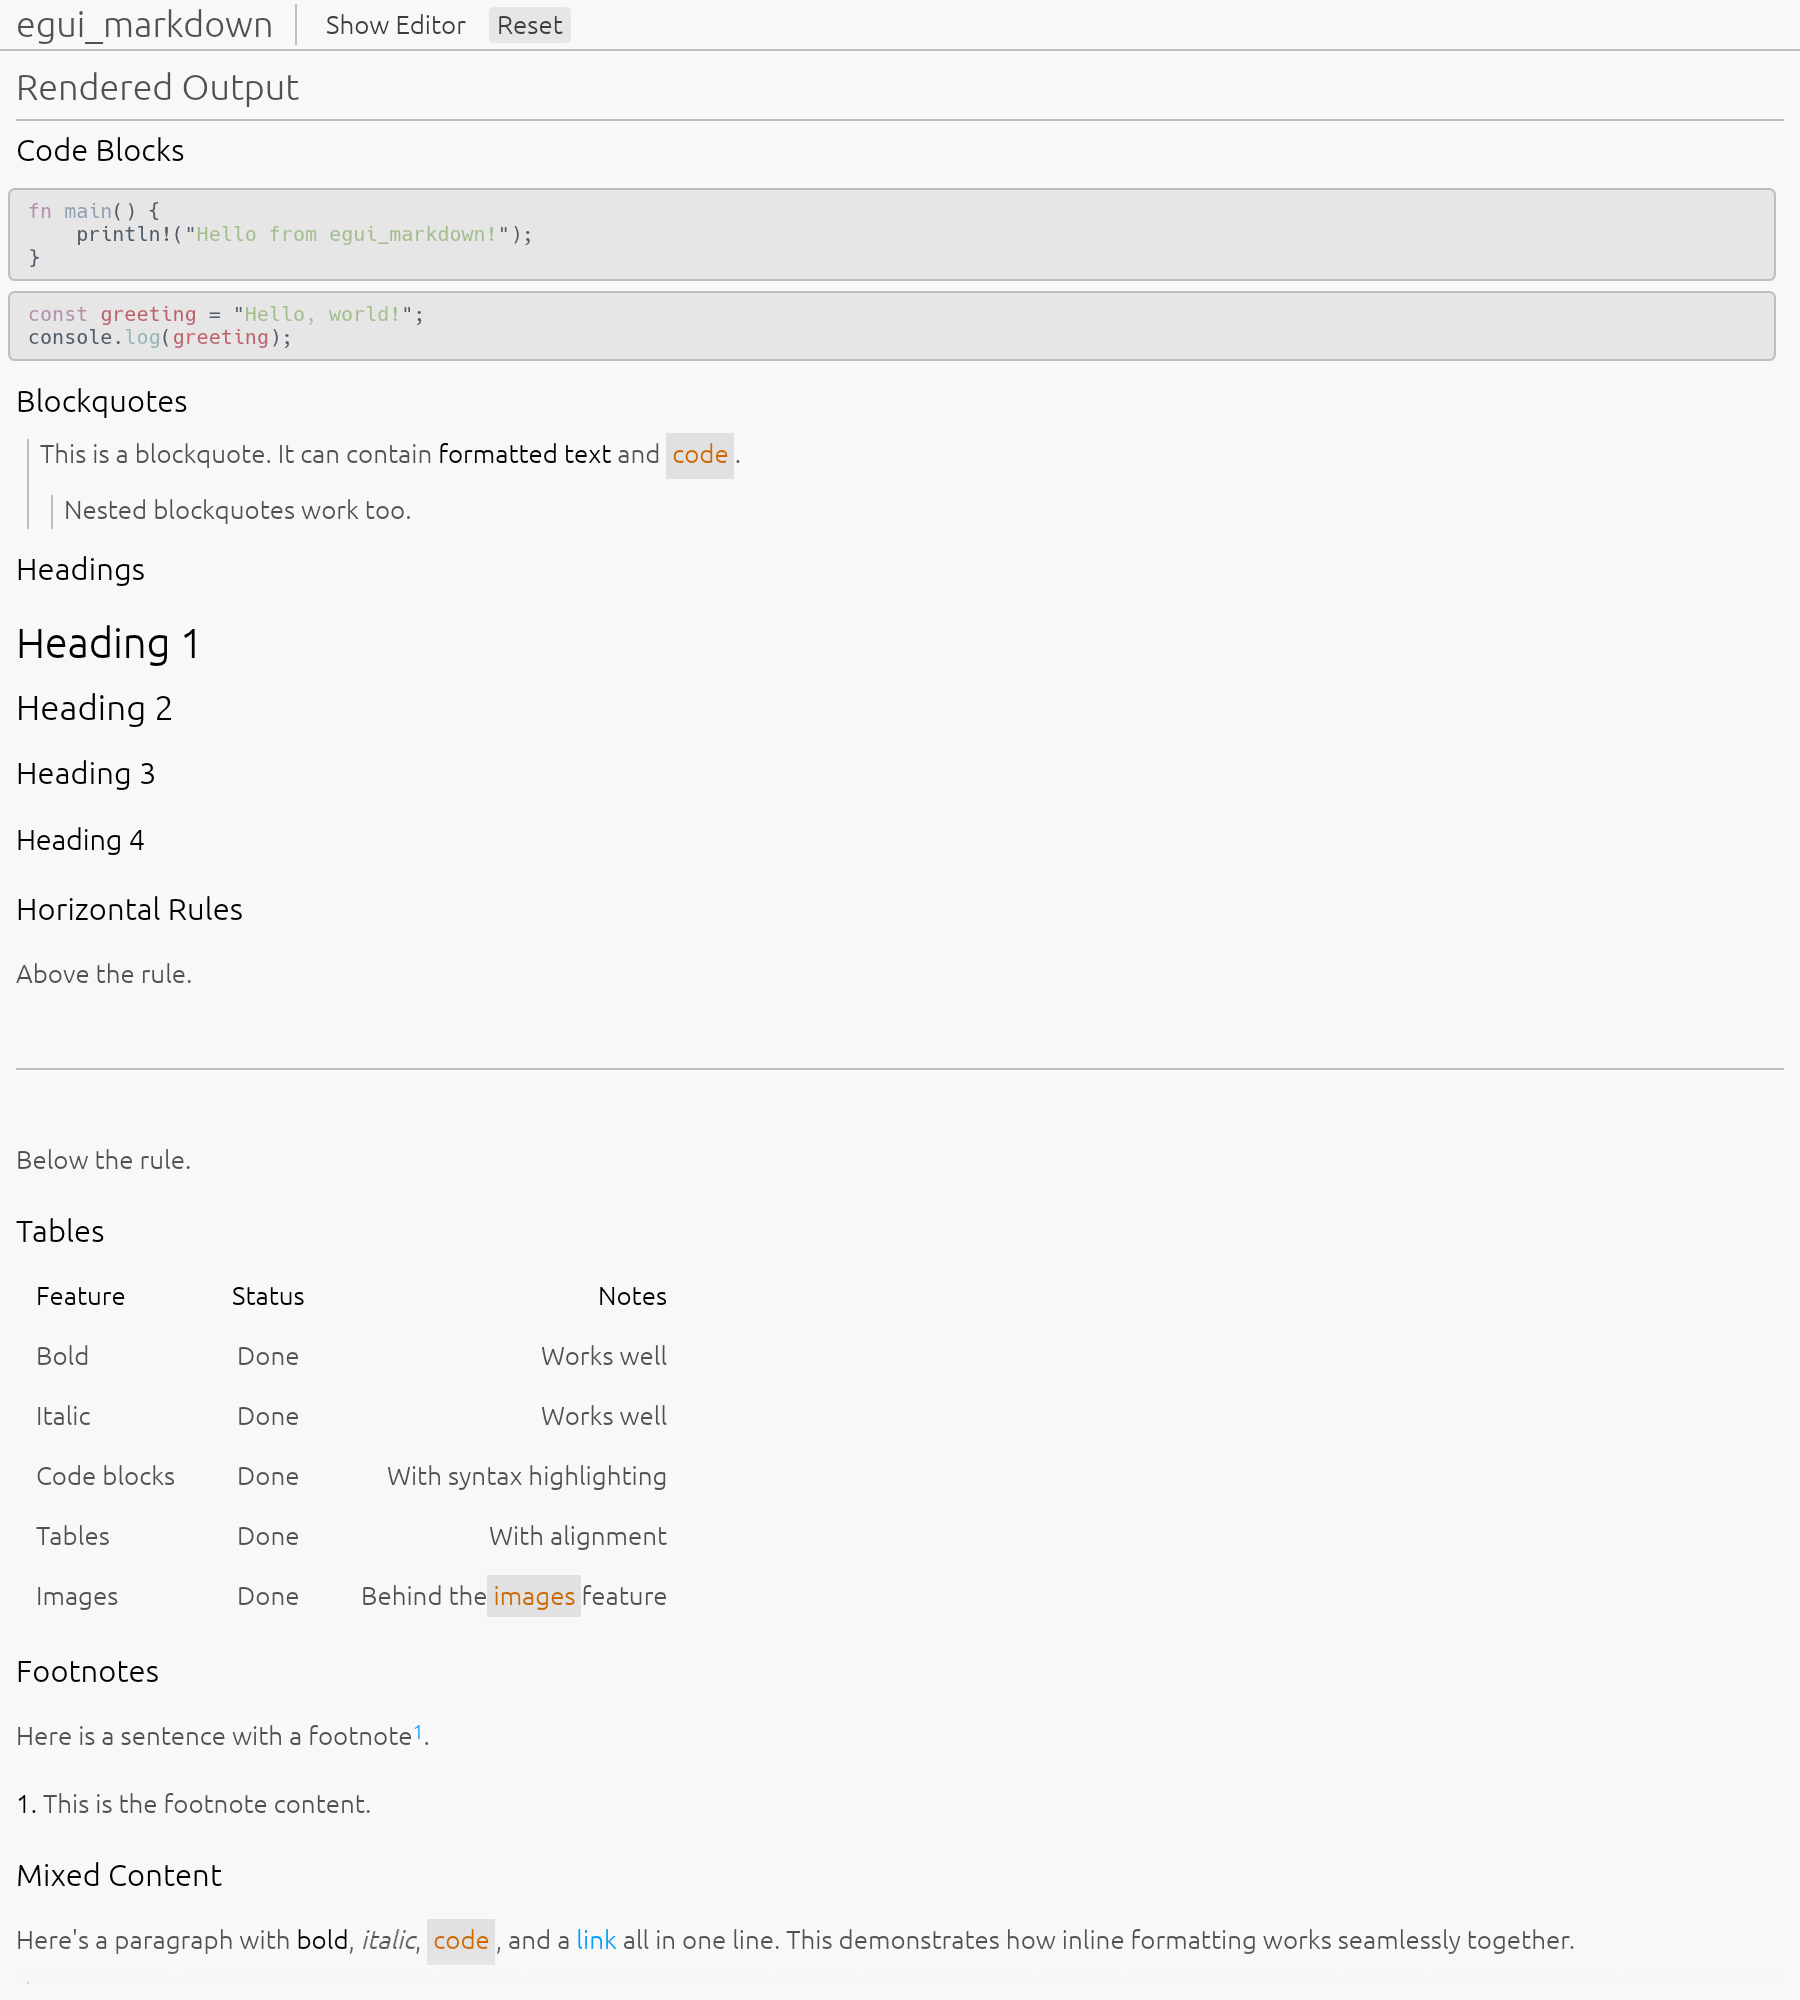
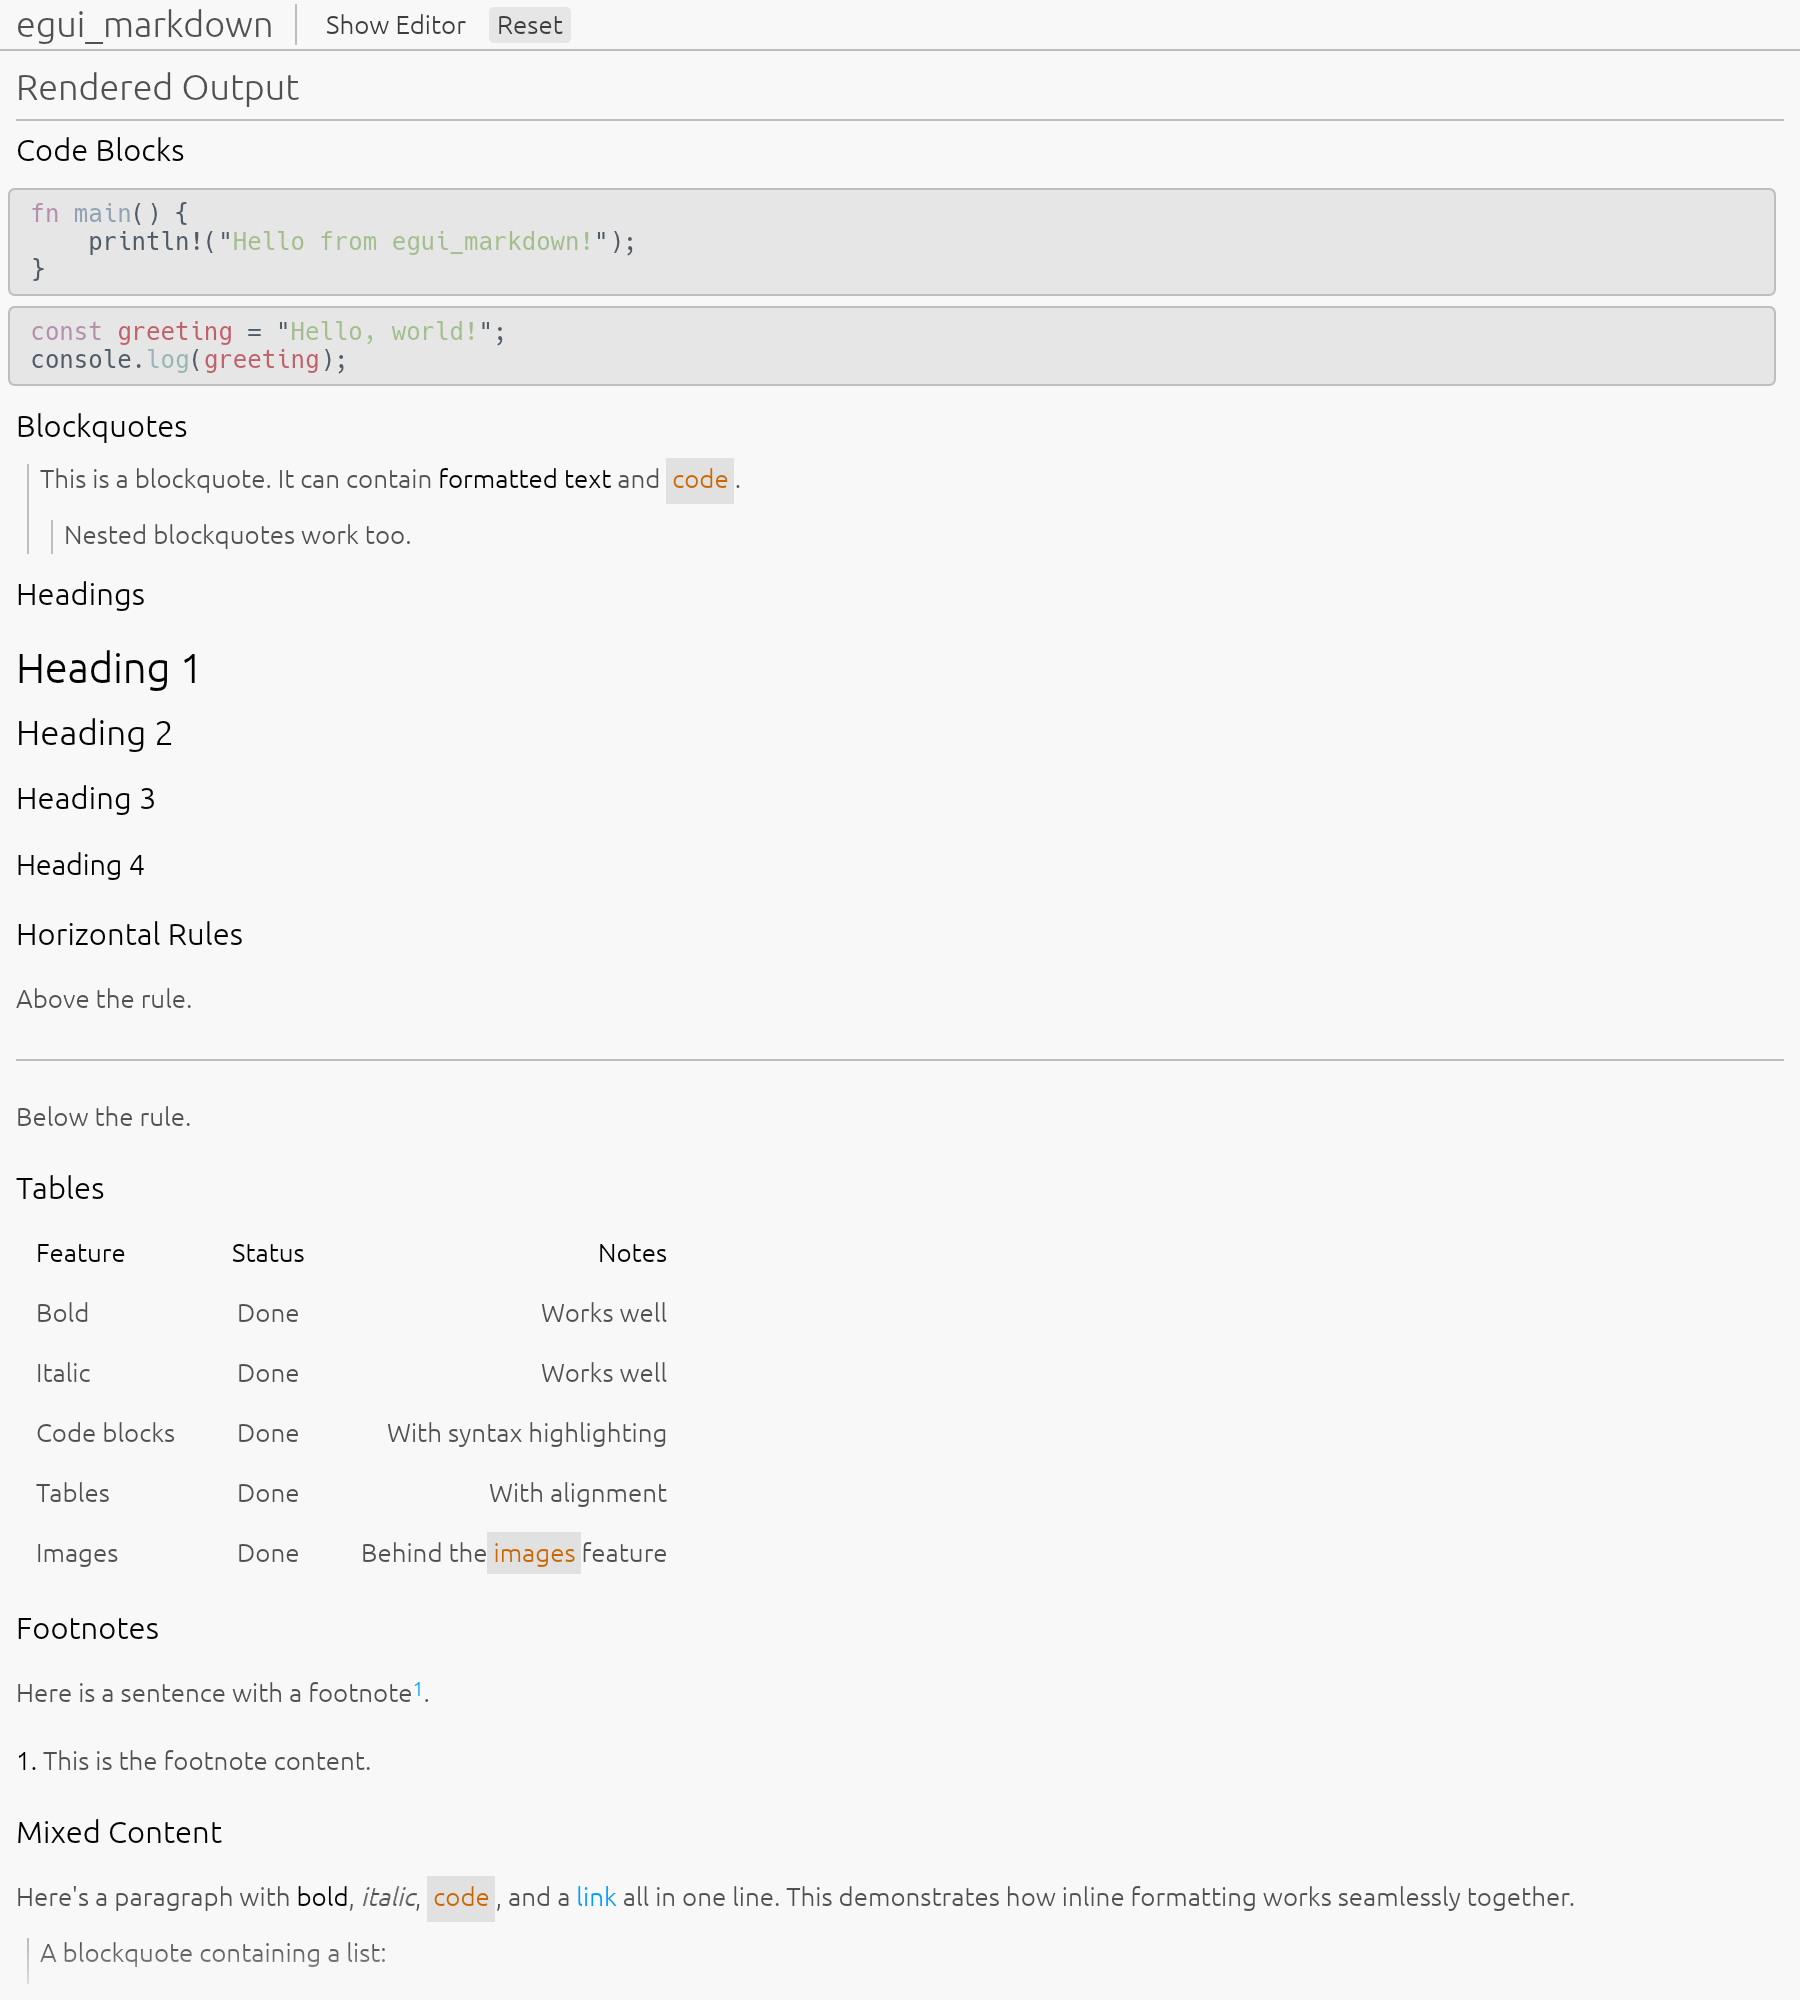
Tighten the space around rules, and raise the default code font size
A rule got two blank rows above and two below it, because the layout added a
newline on each side of the blank lines the parser had already put there. The
newline that ended the rule's row also made that row a full line tall. The
rule now takes one row of HorizontalRuleStyle::height, with one blank row on
each side, as between two paragraphs. The parser ends the rule's row itself,
so text that adds no break, such as an HTML block, still starts a new row.

The default code_font_size was 10, small beside egui's 12.5 point body text.
It is now 12, egui's default monospace size.

diff --git a/src/layout.rs b/src/layout.rs
@@ -356,6 +356,7 @@ pub fn build_layout(
   // Pre-build common formats to avoid repeated font_id.clone().
   let base_format = text_format(font_id.clone(), color);
   let transparent_format = TextFormat { color: Color32::TRANSPARENT, ..base_format.clone() };
+  let hr_format = TextFormat { line_height: Some(style.horizontal_rule.height), ..transparent_format.clone() };
 
   // Disable egui's paragraph-splitting optimization (see egui #5411).
   if let Some(n) = max_rows {
@@ -367,7 +368,10 @@ pub fn build_layout(
   for (token_index, token) in tokens.iter().enumerate() {
     match token {
       Token::Newline => {
-        push_section(&mut job, "\n", 0.0, base_format.clone());
+        // The newline that ends the row of a rule takes the height of the rule, so the row stays short.
+        let after_rule = token_index.checked_sub(1).is_some_and(|i| matches!(tokens[i], Token::HorizontalRule));
+        let format = if after_rule { hr_format.clone() } else { base_format.clone() };
+        push_section(&mut job, "\n", 0.0, format);
         section_to_token.push(token_index);
       }
       Token::Text { text, style } => {
@@ -519,17 +523,12 @@ pub fn build_layout(
         blockquote_depth = blockquote_depth.saturating_sub(1);
       }
       Token::HorizontalRule => {
-        // Newline, short transparent spacer row for the painted rule, then newline.
-        push_section(&mut job, "\n", 0.0, base_format.clone());
-        section_to_token.push(token_index);
+        // A short transparent row that the rule is painted across. The parser puts the rule on a row
+        // of its own, with a blank row above and below it, as between two paragraphs.
         let hr_char_pos = job.text.chars().count();
-        let mut hr_format = transparent_format.clone();
-        hr_format.line_height = Some(style_ref.horizontal_rule.height);
-        push_section(&mut job, " ", 0.0, hr_format);
+        push_section(&mut job, " ", 0.0, hr_format.clone());
         section_to_token.push(token_index);
         hr_positions.push(hr_char_pos);
-        push_section(&mut job, "\n", 0.0, base_format.clone());
-        section_to_token.push(token_index);
       }
       Token::TaskListMarker { checked, .. } => {
         let marker_char = if *checked { "☑ " } else { "☐ " };
@@ -1037,6 +1036,31 @@ mod section_tests {
       assert_eq!(size_of("Title "), heading);
       assert_eq!(size_of("code"), heading);
       assert_eq!(size_of("link"), heading);
+      checked = true;
+    });
+    assert!(checked);
+  }
+
+  /// A rule takes a row of its own, with one blank row above and below it, as between two paragraphs.
+  #[test]
+  fn a_rule_has_one_blank_row_on_each_side() {
+    let mut checked = false;
+    egui::__run_test_ui(|ui| {
+      let style = MarkdownStyle::default();
+      let mut galley = |text: &str| {
+        let markdown = crate::parse(text);
+        let font = FontId::proportional(14.0);
+        let color = ui.visuals().text_color();
+        let layout =
+          build_layout(ui, &markdown.tokens, font, color, None, f32::INFINITY, false, None, false, &style, None);
+        ui.fonts_mut(|f| f.layout_job(layout.job))
+      };
+      let paragraphs = galley("Above\n\nBelow");
+      let rule = galley("Above\n\n---\n\nBelow");
+      let line = MARKDOWN_LINE_HEIGHT_POINTS.unwrap();
+      let added = rule.size().y - paragraphs.size().y;
+      assert!((added - (style.horizontal_rule.height + line)).abs() < 0.5, "the rule added {added} points");
+
       checked = true;
     });
     assert!(checked);

diff --git a/src/parser.rs b/src/parser.rs
@@ -693,6 +693,8 @@ pub fn parse<'s>(s: &'s str) -> Markdown<'s> {
       Event::Rule => {
         ensure_double_newline(&mut tokens);
         tokens.push(Token::HorizontalRule);
+        // The rule ends its row, so text after it, such as an HTML block, starts a row of its own.
+        tokens.push(Token::Newline);
       }
 
       Event::TaskListMarker(checked) => {
@@ -1714,6 +1716,17 @@ mod tests {
     assert_eq!(styles.len(), 2);
     assert!(styles.iter().all(|style| style.heading == Some(2)));
     assert!(!styles[0].italic && styles[1].italic);
+  }
+
+  #[test]
+  fn a_rule_ends_its_row() {
+    // An HTML block adds no break of its own, so the newline after the rule keeps it off the row.
+    let md = parse("---\n<div>x</div>");
+    assert!(
+      matches!(md.tokens.as_slice(), [Token::HorizontalRule, Token::Newline, Token::Text { .. }, ..]),
+      "{:?}",
+      md.tokens
+    );
   }
 
   #[test]

diff --git a/egui_markdown_style/src/style.rs b/egui_markdown_style/src/style.rs
@@ -44,7 +44,8 @@ pub struct MarkdownStyle {
   pub table: TableStyle,
   /// Vertical spacing between block elements in pixels.
   pub block_spacing: f32,
-  /// Font size for code blocks. Default: `10.0`.
+  /// Font size for code blocks. Default: `12.0`, the size of egui's default
+  /// [`egui::TextStyle::Monospace`], which sits beside its 12.5 point body text.
   pub code_font_size: f32,
   /// Language used for syntax highlighting when no language is specified.
   pub default_code_language: String,
@@ -61,7 +62,7 @@ impl Default for MarkdownStyle {
       list: ListStyle::default(),
       table: TableStyle::default(),
       block_spacing: 8.0,
-      code_font_size: 10.0,
+      code_font_size: 12.0,
       default_code_language: String::new(),
     }
   }

diff --git a/examples/advanced.rs b/examples/advanced.rs
@@ -45,7 +45,7 @@ impl AdvancedApp {
       selectable: true,
       interactable: true,
       render_times: VecDeque::with_capacity(120),
-      markdown_style: MarkdownStyle { code_font_size: 12.0, ..Default::default() },
+      markdown_style: MarkdownStyle::default(),
       simulate_stream: false,
       stream_pos: 0,
       stream_source: DEFAULT_MARKDOWN.to_string(),

diff --git a/CHANGELOG.md b/CHANGELOG.md
@@ -41,6 +41,9 @@ and this project adheres to [Semantic Versioning](https://semver.org/spec/v2.0.0
 - Holding Shift no longer turns off text selection, so a shift-click extends the selection, as it
   does on `egui::Label`. The selection also stays painted while Shift is down. An app that used
   Shift for something else can pass `.selectable(!ui.input(|i| i.modifiers.shift))`.
+- The default `MarkdownStyle::code_font_size` is `12.0`, the size of egui's default monospace text. It
+  was `10.0`, which was small beside egui's 12.5 point body text. An app that wants the old size sets
+  it.
 - **Breaking:** the crates need Rust 1.95, which egui 0.36 needs. `rust-version` said 1.80.
 - `heal()` removes a last line that holds only block markers, such as `-` or `1.`, and a run of
   inline markers at the end, such as `**`. It also removes the URL of an open link, so the link
@@ -75,6 +78,9 @@ and this project adheres to [Semantic Versioning](https://semver.org/spec/v2.0.0
   bold text is bold.
 - `LinkStyle::underline` is now read. `false` turns off the hover underline.
 - A blockquote now gets block spacing above it, as it already did below it.
+- A horizontal rule had two blank rows above it and two below it, and its own row was a full line
+  tall. It now has one blank row on each side, as between two paragraphs, and its row is
+  `HorizontalRuleStyle::height` tall.
 - The segmented render path no longer copies every token of the document on each cached frame.
 - The published package now includes the streaming test fixtures, and `egui_markdown_style` ships
   its license files.
